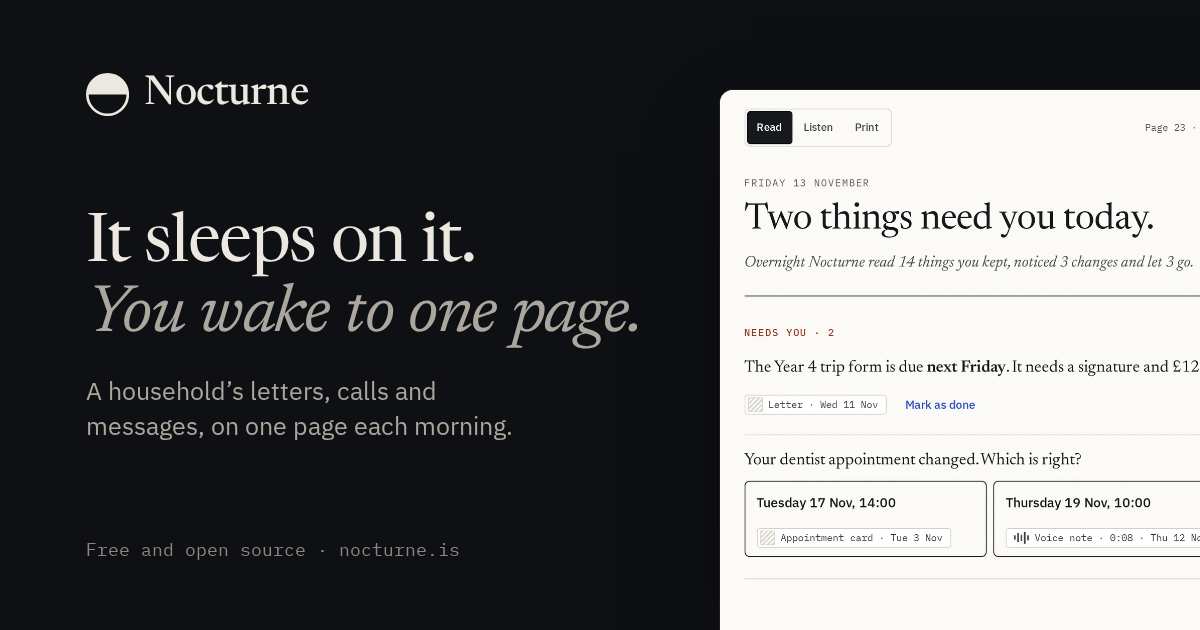
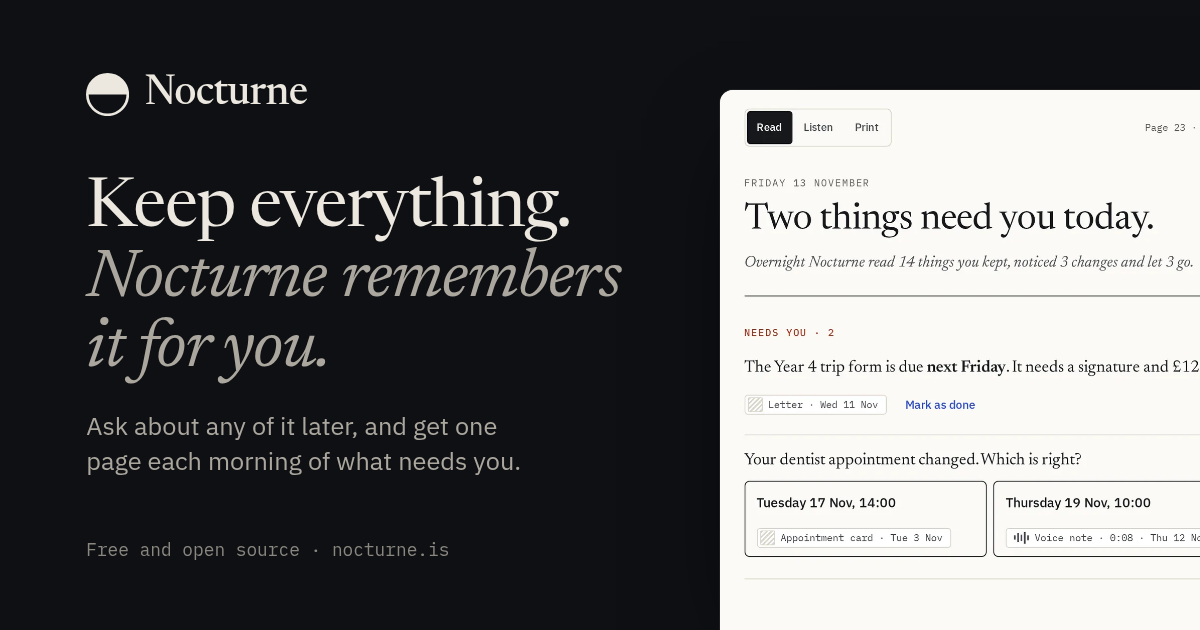
feat(site): share card leads with the new line

diff --git a/site/index.html b/site/index.html
@@ -18,7 +18,7 @@
 <meta property="og:image" content="{{SITE_URL}}/assets/img/og.png">
 <meta property="og:image:width" content="1200">
 <meta property="og:image:height" content="630">
-<meta property="og:image:alt" content="Nocturne. It sleeps on it. You wake to one page. A household’s letters, calls and messages, on one page each morning. Beside the words, the morning page from the app with demo data.">
+<meta property="og:image:alt" content="Nocturne. Keep everything. Nocturne remembers it for you. Ask about any of it later, and get one page each morning of what needs you. Beside the words, the morning page from the app with demo data.">
 <meta name="twitter:card" content="summary_large_image">
 <meta name="twitter:image" content="{{SITE_URL}}/assets/img/og.png">
 <link rel="icon" type="image/png" sizes="32x32" href="/favicon-32.png">

diff --git a/site/install.html b/site/install.html
@@ -18,7 +18,7 @@
 <meta property="og:image" content="{{SITE_URL}}/assets/img/og.png">
 <meta property="og:image:width" content="1200">
 <meta property="og:image:height" content="630">
-<meta property="og:image:alt" content="Nocturne. It sleeps on it. You wake to one page. A household’s letters, calls and messages, on one page each morning. Beside the words, the morning page from the app with demo data.">
+<meta property="og:image:alt" content="Nocturne. Keep everything. Nocturne remembers it for you. Ask about any of it later, and get one page each morning of what needs you. Beside the words, the morning page from the app with demo data.">
 <meta name="twitter:card" content="summary_large_image">
 <meta name="twitter:image" content="{{SITE_URL}}/assets/img/og.png">
 <link rel="icon" type="image/png" sizes="32x32" href="/favicon-32.png">

diff --git a/site/docs-theme/head.html b/site/docs-theme/head.html
@@ -4,7 +4,7 @@
 <meta property="og:image" content="{{SITE_URL}}/assets/img/og.png">
 <meta property="og:image:width" content="1200">
 <meta property="og:image:height" content="630">
-<meta property="og:image:alt" content="Nocturne. It sleeps on it. You wake to one page. A household’s letters, calls and messages, on one page each morning. Beside the words, the morning page from the app with demo data.">
+<meta property="og:image:alt" content="Nocturne. Keep everything. Nocturne remembers it for you. Ask about any of it later, and get one page each morning of what needs you. Beside the words, the morning page from the app with demo data.">
 <meta name="twitter:card" content="summary_large_image">
 <meta name="twitter:image" content="{{SITE_URL}}/assets/img/og.png">
 <link rel="icon" type="image/png" sizes="32x32" href="/favicon-32.png">

diff --git a/site/brand/card.html b/site/brand/card.html
@@ -152,8 +152,8 @@
       <span>Nocturne</span>
     </div>
     <div>
-      <h1>It sleeps on it.<br><em>You wake to one page.</em></h1>
-      <p class="what">A household’s letters, calls and messages, on one page each morning.</p>
+      <h1>Keep everything.<br><em>Nocturne remembers it for you.</em></h1>
+      <p class="what">Ask about any of it later, and get one page each morning of what needs you.</p>
     </div>
     <p class="foot"><span>Free and open source</span><span>nocturne.is</span></p>
   </div>
